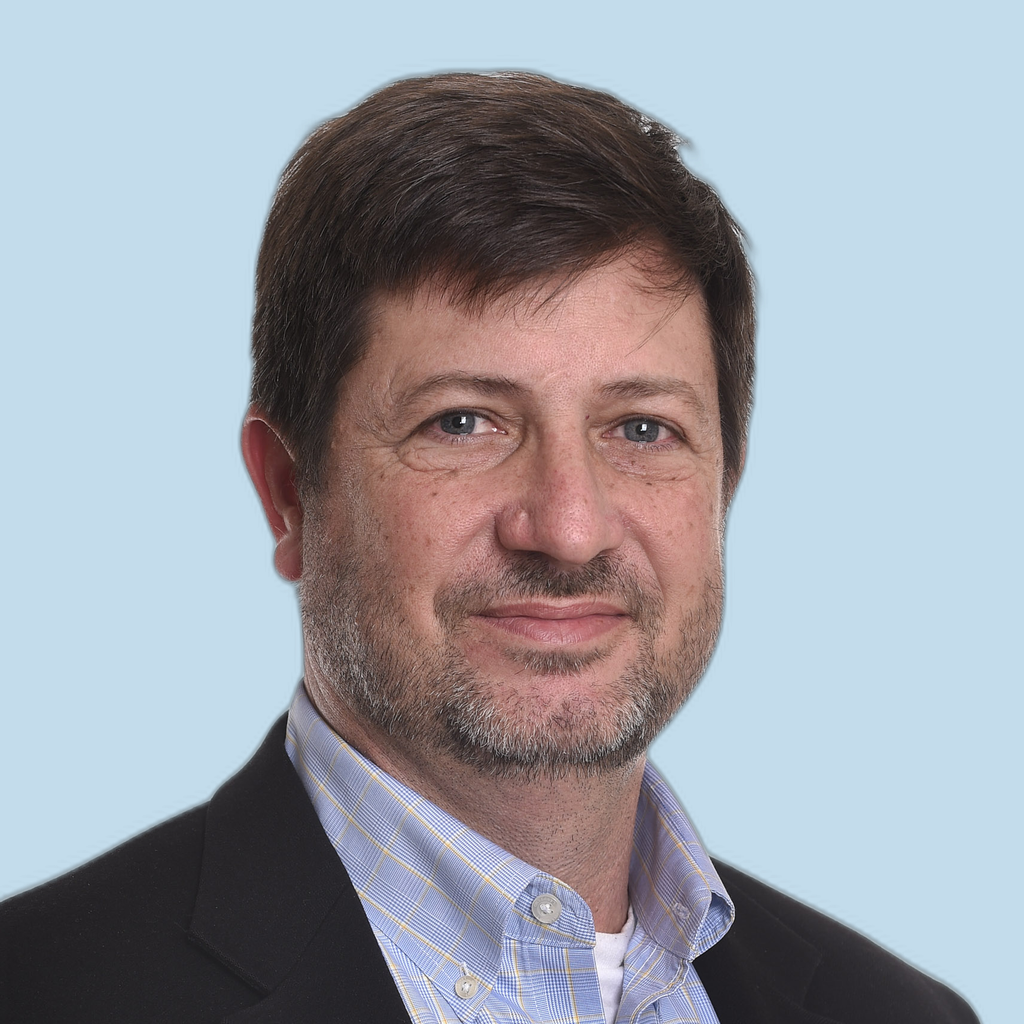
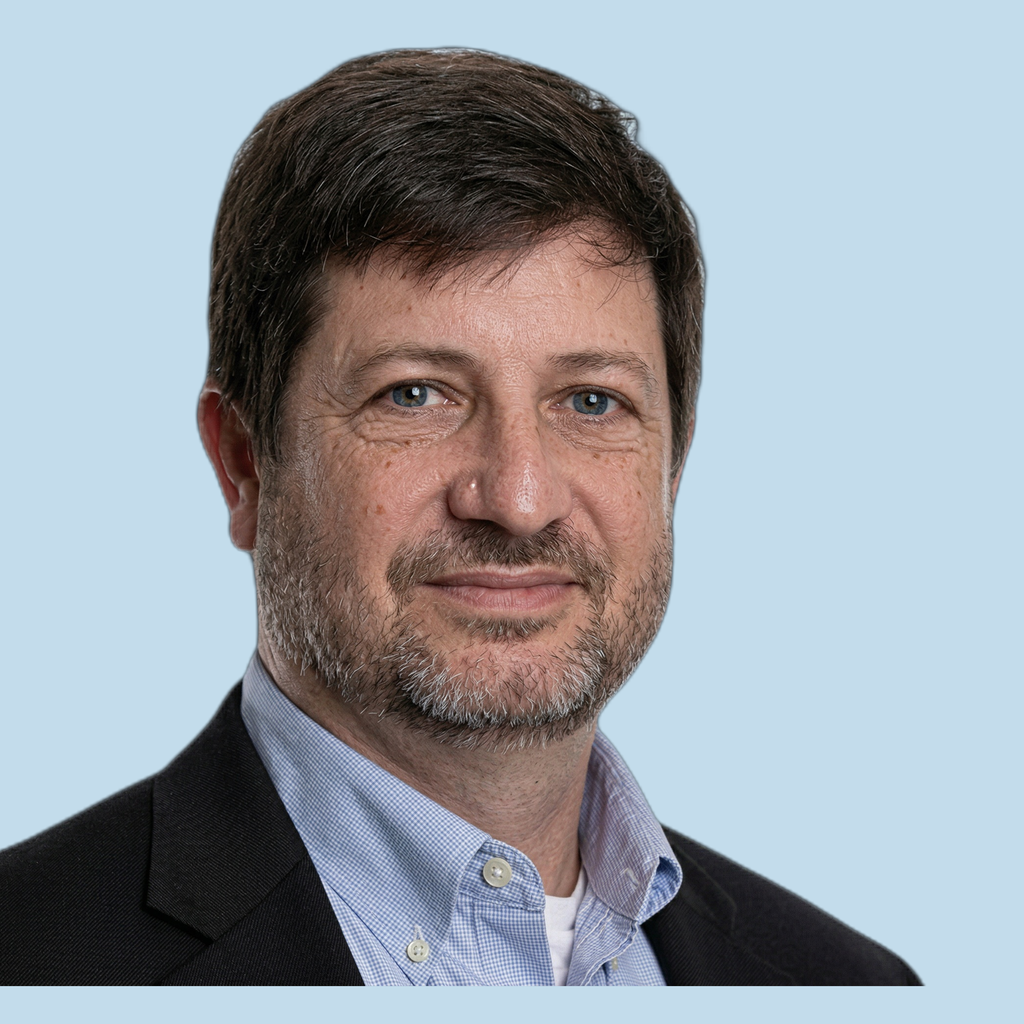
Update team headshots for Tiana, Geoff, Simone; add Simone back to team page

diff --git a/src/app/team-page/page.tsx b/src/app/team-page/page.tsx
@@ -39,6 +39,12 @@ const team = [
     linkedin: "https://www.linkedin.com/in/sarancibiao/",
   },
   {
+    name: "Simone Castelli",
+    role: "Data Science",
+    photo: "/images/team/simone-castelli.png",
+    linkedin: "",
+  },
+  {
     name: "Geoff Werner",
     role: "Strategic Advisor",
     photo: "/images/team/geoff-werner.png",